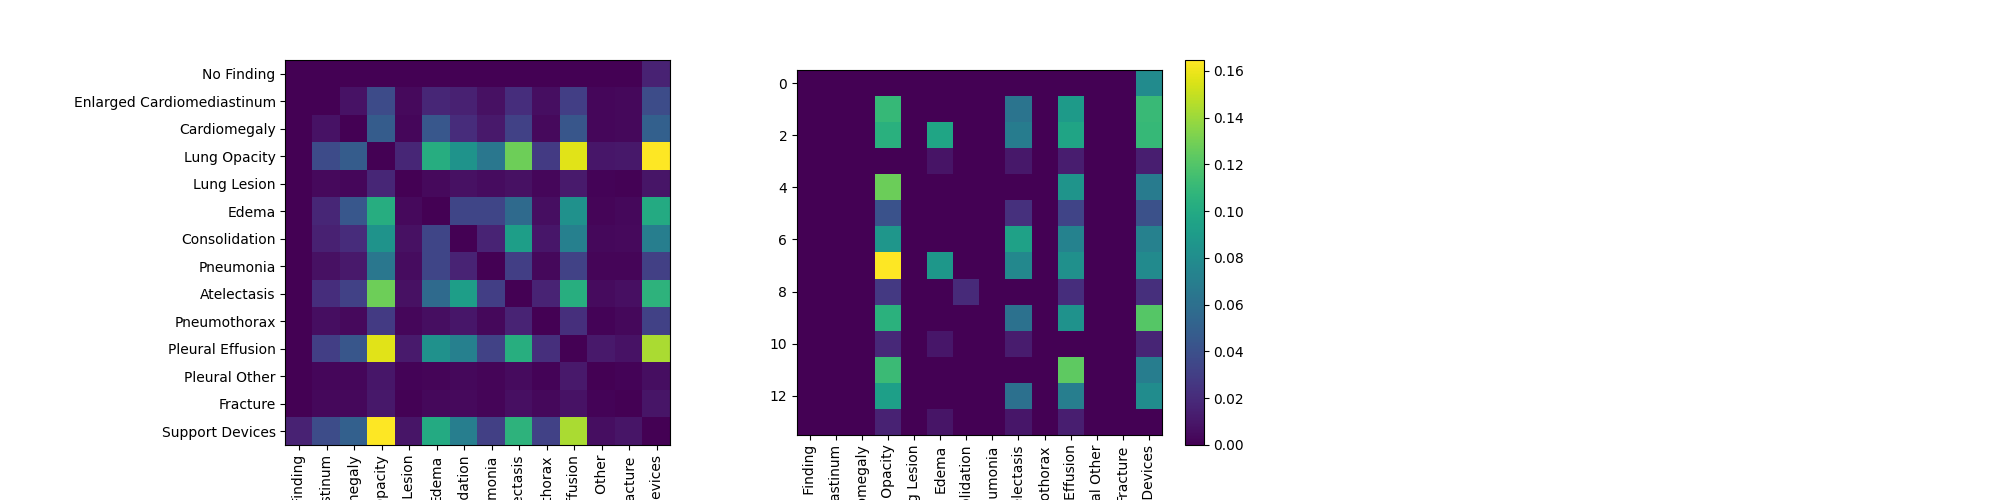
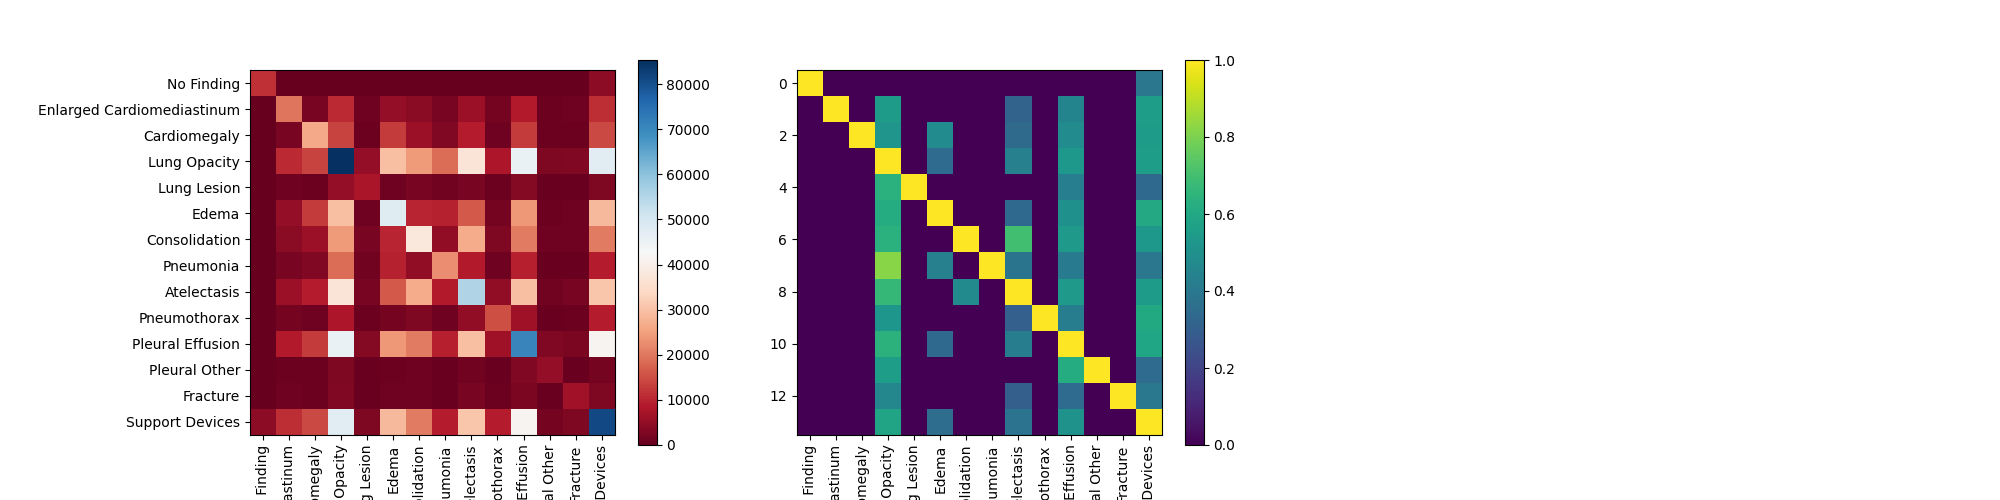
changed the criterion from loss to mean_auc for saving

Changed region(s): [[0.0, 0.12, 0.62, 1.0], [0.589, 0.51, 0.62, 0.54], [0.589, 0.12, 0.62, 0.15]]

diff --git a/main.py b/main.py
@@ -39,7 +39,7 @@ class CheXpertTrainer():
 
     @staticmethod
     def epochTrain(model, dataLoader_train, dataLoaderVal, optimizer, criterion, logger_train, logger_val, epochId,
-                   min_val_loss, scaler, args):
+                   max_val_auc, scaler, args):
 
         model.train()
         for batchID, (varInput, target) in enumerate(dataLoader_train):
@@ -60,8 +60,7 @@ class CheXpertTrainer():
 
             l = lossvalue.item()
 
-            # if batchID % 1000 == 999:
-            if batchID % 10 == 1:
+            if batchID % 1000 == 999:
                 step = (epochId * len(dataLoader_train)) + batchID  # Use the same step for logging
                 logger_train.add_scalar(tag="loss", scalar_value=l, global_step=step)
                 le, val_auc = CheXpertTrainer.epochVal(model=model, dataLoader=dataLoaderVal, loss=criterion, args=args)
@@ -69,9 +68,8 @@ class CheXpertTrainer():
                 logger_val.add_scalar(tag="mean_auc", scalar_value=val_auc, global_step=step)
                 # Put the model back in training mode
                 model.train()
-                if le < min_val_loss:
-                    min_val_loss = le
-                    torch.save({'epoch': epochId + 1, 'state_dict': model.state_dict(), 'best_loss': min_val_loss,
+                if val_auc > max_val_auc:
+                    torch.save({'epoch': epochId + 1, 'state_dict': model.state_dict(), 'best_auc': max_val_auc,
                                 'optimizer': optimizer.state_dict()},
                                os.path.join(args.save_dir, 'model' + str(epochId) + '.pth'))
                 print(f"Epoch {epochId}:{batchID} iterations completed")
@@ -80,7 +78,7 @@ class CheXpertTrainer():
         if args.lr_schedule and (epochId + 1) % args.schedule_after_epochs == 0:
             args.lr = CheXpertTrainer.scale_lr(lr=args.lr, factor=args.factor, optimizer=optimizer)
 
-        return min_val_loss
+        return max_val_auc
 
     @staticmethod
     def epochVal(model, dataLoader, loss, args):
@@ -117,8 +115,8 @@ class CheXpertTrainer():
                           args):
 
         # SETTINGS: OPTIMIZER & SCHEDULER
-        # optimizer = optim.Adam(model.parameters(), lr=lr, betas=(0.9, 0.999), eps=1e-08, weight_decay=1e-5)
-        optimizer = optim.SGD(model.parameters(), lr=lr, momentum=0.9)
+        optimizer = optim.Adam(model.parameters(), lr=lr, betas=(0.9, 0.999), eps=1e-08, weight_decay=1e-5)
+        # optimizer = optim.SGD(model.parameters(), lr=lr, momentum=0.9)
         if label_weights is not None:
             pos_weight, neg_weight = label_weights
             pos_weight = pos_weight.to(DEVICE)
@@ -135,18 +133,18 @@ class CheXpertTrainer():
         logger_val = SummaryWriter(os.path.join(logdir, 'val'))
 
         # TRAIN THE NETWORK
-        min_val_loss = 100000
+        max_val_auc = 0
 
         # Mixed Precision Training
         scaler = GradScaler()
         for epochID in range(trMaxEpoch):
             # (model, dataLoader_train, dataLoaderVal, optimizer, criterion, logger_train, logger_val, epochId
-            min_val_loss = CheXpertTrainer.epochTrain(model=model, dataLoader_train=dataLoaderTrain,
+            max_val_auc = CheXpertTrainer.epochTrain(model=model, dataLoader_train=dataLoaderTrain,
                                                                  dataLoaderVal=dataLoaderVal,
                                                                  optimizer=optimizer, criterion=criterion,
                                                                  logger_train=logger_train,
                                                                  logger_val=logger_val, epochId=epochID,
-                                                                 min_val_loss=min_val_loss, scaler=scaler,
+                                                                 max_val_auc=max_val_auc, scaler=scaler,
                                                                  args=args)
         # Select the last saved model as it would work as the best model
         bestModel = max([int(''.join(i for i in x if i.isdigit())) for x in os.listdir(args.save_dir)])
@@ -284,7 +282,7 @@ if __name__ == '__main__':
     args.schedule_after_epochs = parser['setup'].getint('schedule_after_epochs')
 
     args.uncertainty_labels = parser['data'].get('uncertainty_labels')
-    args.build_graph = args.model_type == 'base'
+    args.build_graph = True #args.model_type == 'base'
     # Add some extra configurations
     args.pathFileTrain = os.path.join(PROJECT_ROOT_DIR, 'dataset', 'CheXpert-v1.0-small', 'train.csv')
     args.pathFileValid = os.path.join(PROJECT_ROOT_DIR, 'dataset', 'CheXpert-v1.0-small', 'valid.csv')

diff --git a/models/graph_base/create_graph.py b/models/graph_base/create_graph.py
@@ -26,7 +26,9 @@ def plot_cooccurence():
     plt.xticks(np.arange(len(label_columns)), label_columns, rotation='vertical')
     plt.ylim(-0.5, len(label_columns) - 0.5)
     plt.gca().invert_yaxis()
-    plt.imshow(co_occurrence_mat)
+    cmap = plt.get_cmap('RdBu')
+    plt.imshow(co_occurrence_mat, cmap=cmap)
+    plt.colorbar()
     plt.subplot(132)
     plt.xticks(np.arange(len(label_columns)), label_columns, rotation='vertical')
     plt.ylim(-0.5, len(label_columns) - 0.5)
@@ -81,11 +83,12 @@ def create_graph_data_object(debug=True):
         [[int(e[0]), int(e[1])] for e in zip(*co_occur_directional.nonzero())],
         dtype=torch.long)
     edge_features = [[co_occur_directional[int(e[0])][int(e[1])]] for e in zip(*co_occur_directional.nonzero())]
-    edge_features = torch.as_tensor(np.concatenate(edge_features), dtype=torch.float).unsqueeze(1)
+    edge_features = torch.as_tensor(np.concatenate(edge_features), dtype=torch.float)#.unsqueeze(1)
     # We would also need word features
     new_node_names = []
     for x in label_columns:
         new_node_names.append(re.sub(r'[0-9\(\)\/:;,-]', ' ', x))
+    # We have the cleaned node names. Now we can compute their feature values.
     if debug:
         x = torch.as_tensor(range(len(label_columns)), dtype=torch.float)
     else:
@@ -168,7 +171,7 @@ def plot_3d_graph(uncertainty_labels):
 
 
 if __name__ == '__main__':
-    parser = read_config()
-    uncertainty_labels = parser['data'].get('uncertainty_labels')
-    plot_3d_graph(uncertainty_labels=uncertainty_labels)
-    # plot_cooccurence()
+    # parser = read_config()
+    # uncertainty_labels = parser['data'].get('uncertainty_labels')
+    # plot_3d_graph(uncertainty_labels=uncertainty_labels)
+    plot_cooccurence()

diff --git a/dataset/ChexpertDataloader.py b/dataset/ChexpertDataloader.py
@@ -148,9 +148,9 @@ def data_loader_dict(uncertainty_labels='positive', batch_size=64, num_workers=4
     data_items['test'] = data_items_te
 
     # [!] For overfitting!
-    data_items['train'] = data_items_tr[::100]
-    data_items['valid'] = data_items_va[::10]
-    data_items['test']  = data_items_te[::10]
+    # data_items['train'] = data_items_tr[::100]
+    # data_items['valid'] = data_items_va[::10]
+    # data_items['test']  = data_items_te[::10]
 
     def get_data_loader(data_items, split, batch_size, augment, preprocess, shuffle=True):
         data_items = data_items[split]
@@ -190,7 +190,7 @@ def data_loader_dict(uncertainty_labels='positive', batch_size=64, num_workers=4
 if __name__ == '__main__':
     parser = read_config()
     uncertainty_labels = parser['data'].get('uncertainty_labels')
-    data = data_loader_dict(uncertainty_labels=uncertainty_labels, batch_size=64, num_workers=4)
+    data, weights = data_loader_dict(uncertainty_labels=uncertainty_labels, batch_size=64, num_workers=4)
     train = data['train']
     for img, label in train:
         print(img.shape)

diff --git a/models/graph_base/base_model.py b/models/graph_base/base_model.py
@@ -34,9 +34,7 @@ class BaseGNNModel(nn.Module):
         x = self.conv2(x=x, edge_index=edge_index, edge_weight=edge_weight)  # W, 1024
         # x = self.conv2(x=x, edge_index=edge_index)  # W, 1664
         # img_feat = B, 1664, x = W, 1664
-        # x = torch.mm(img_feat, x.t())
-        # dot product
-        x = torch.einsum('ij,kj->ik', img_feat, x)
+        x = torch.mm(img_feat, x.t())
         return x
 
 if __name__ == '__main__':
